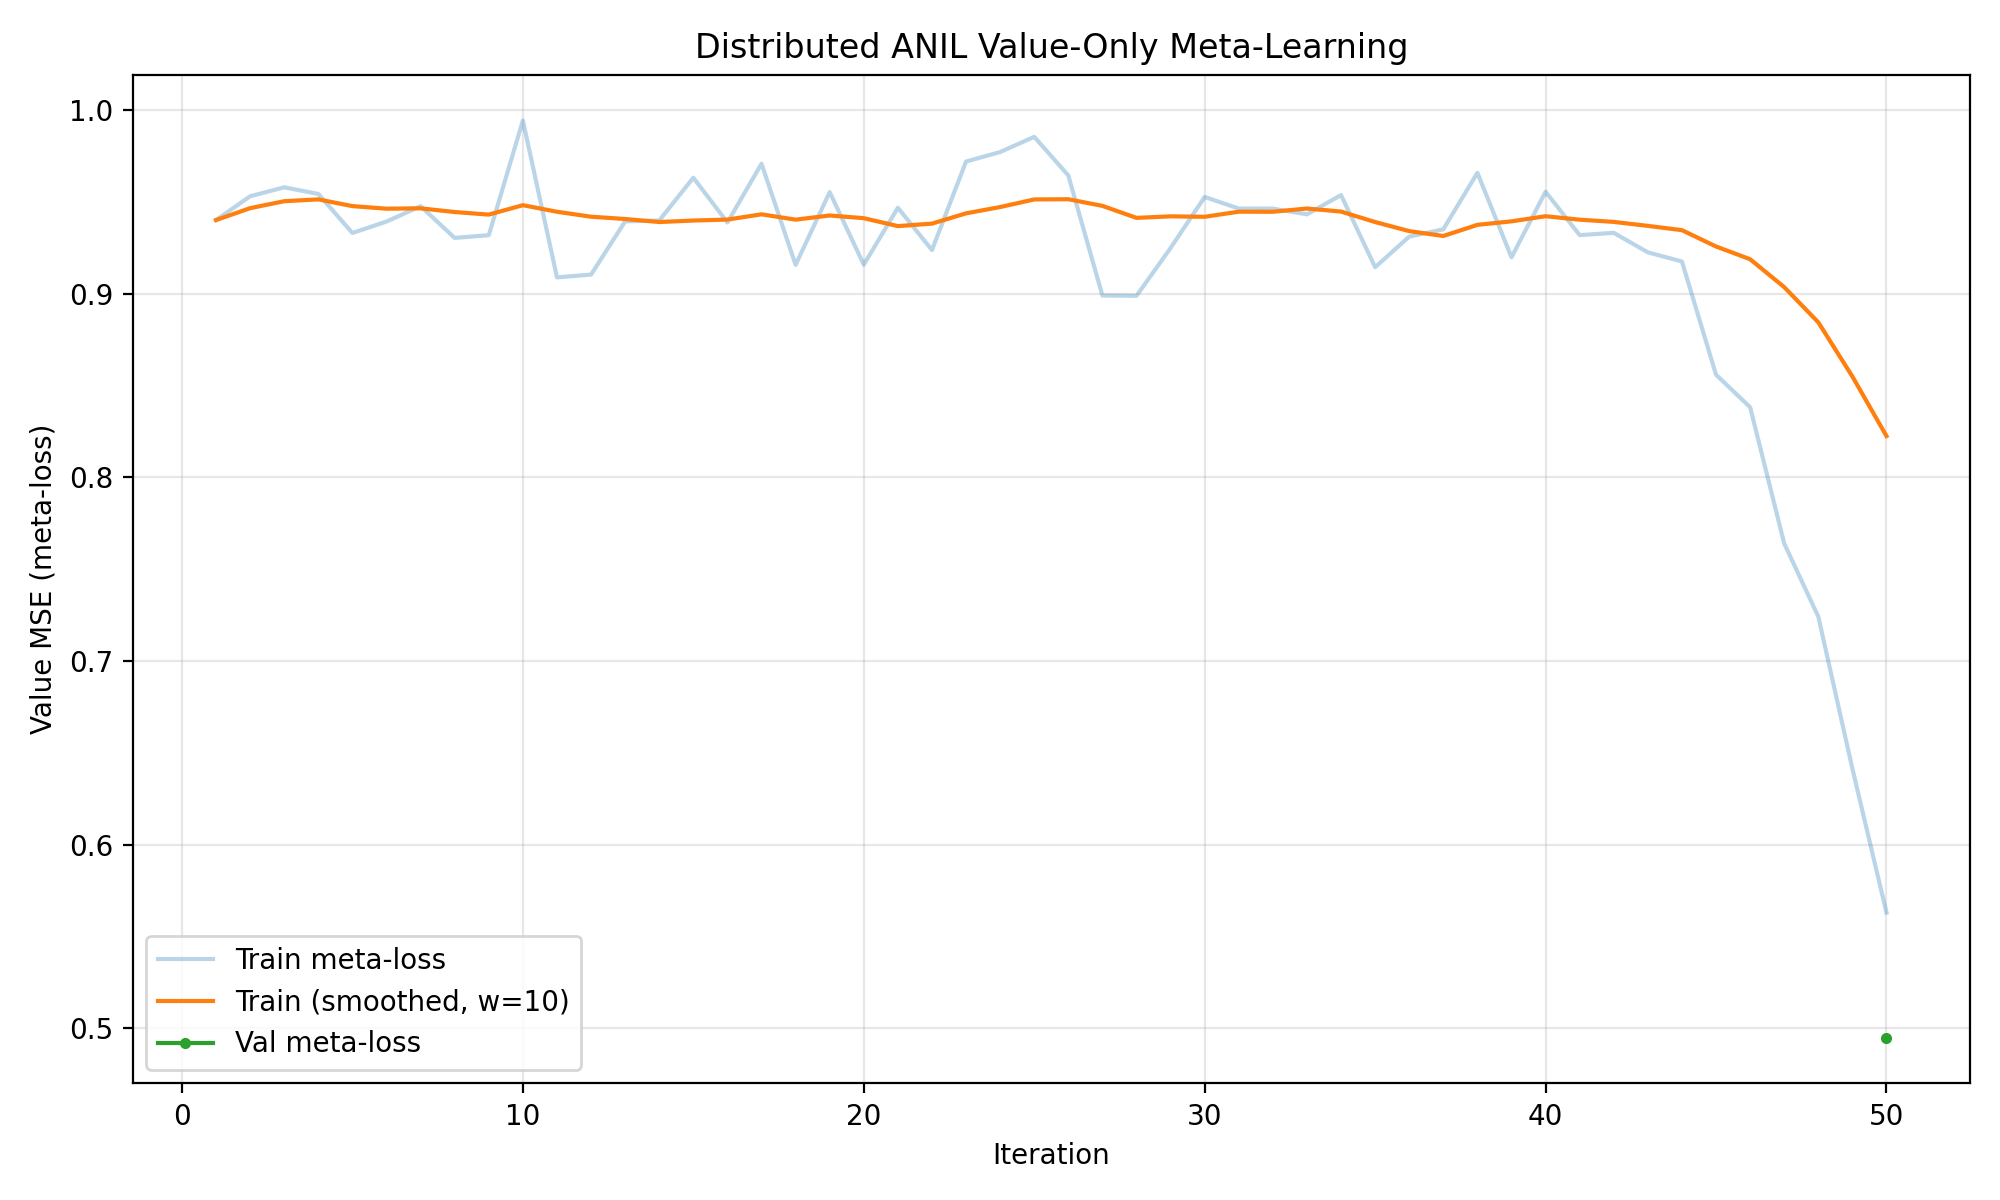
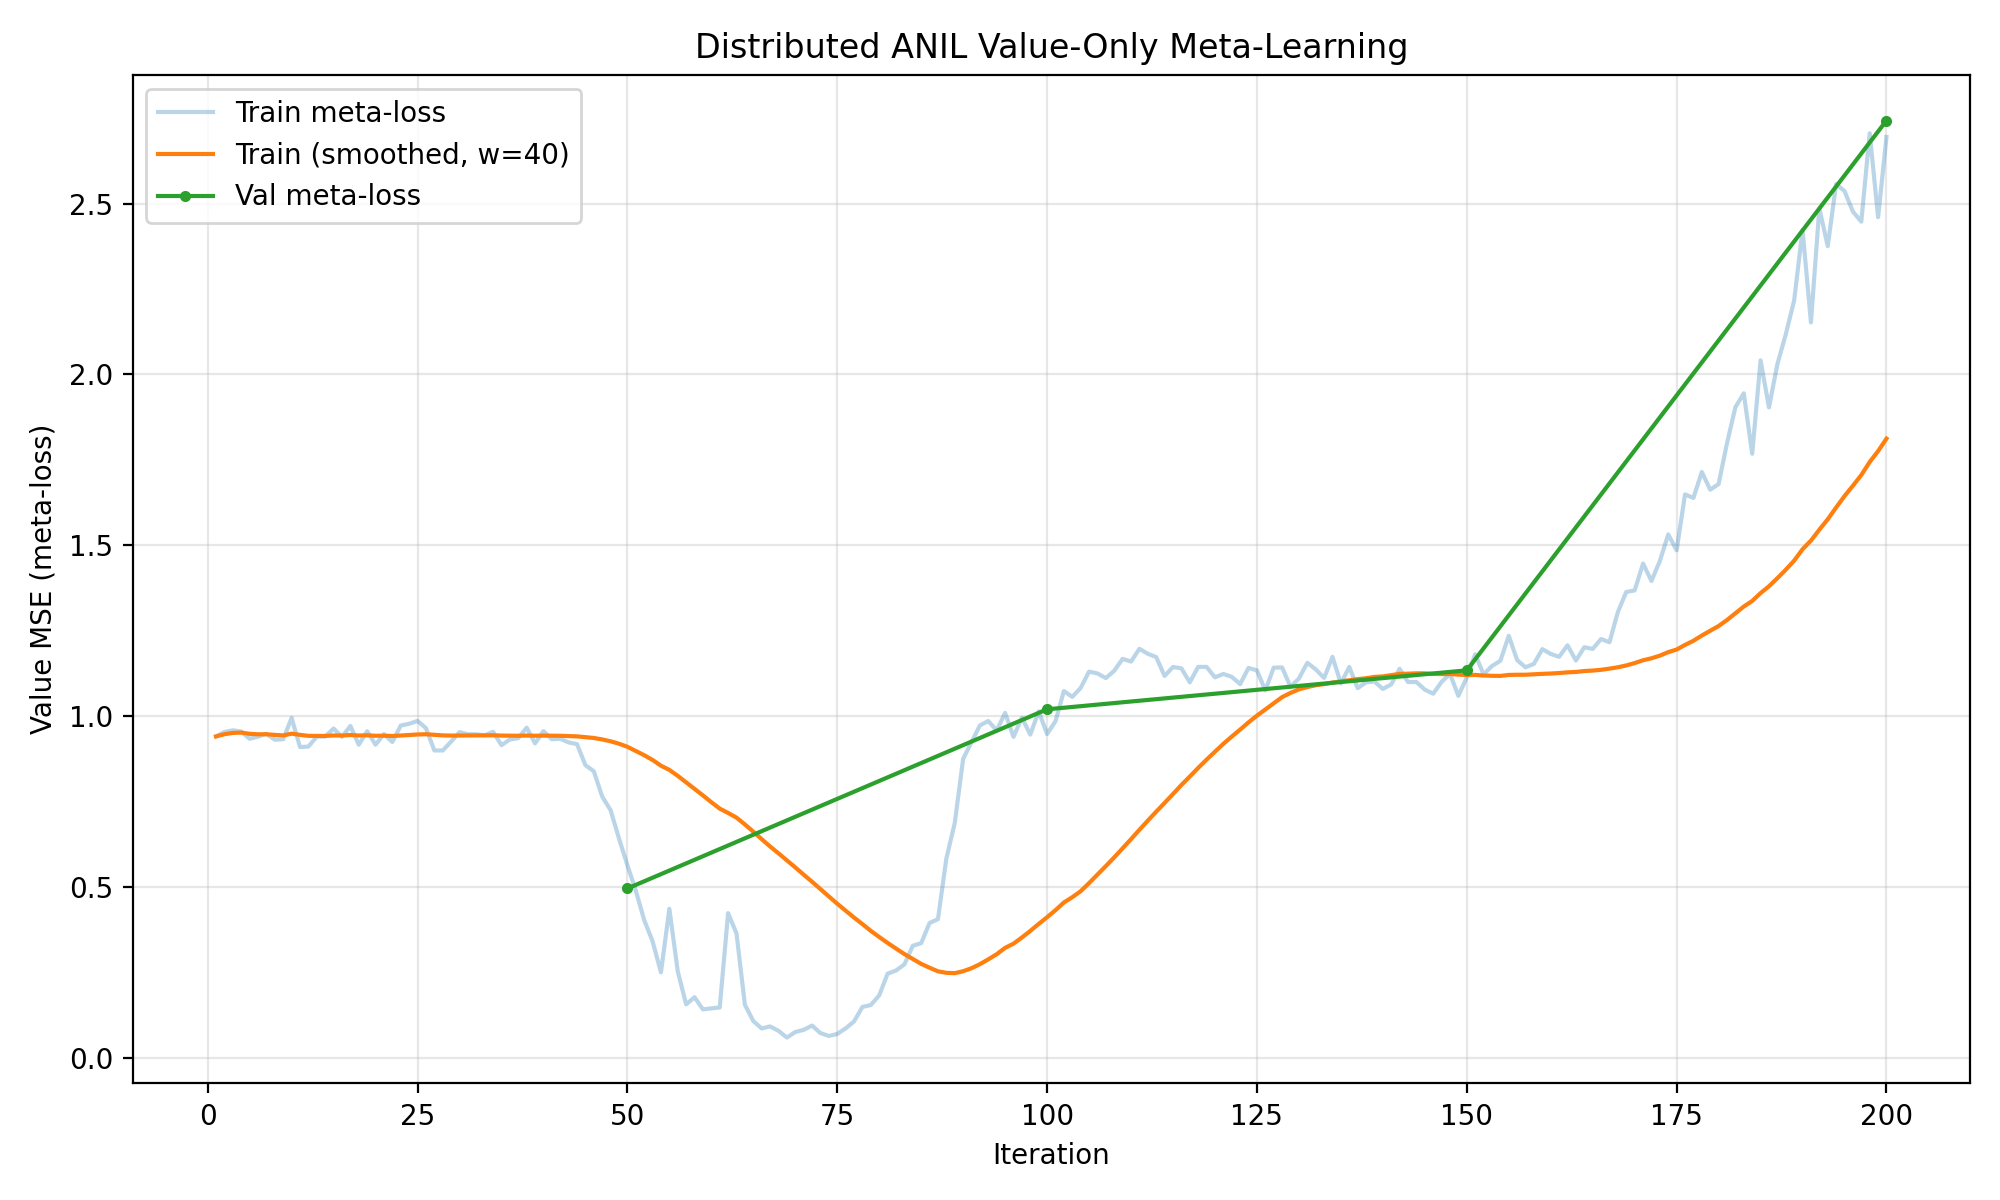
results: auto-update 2026-04-10 18:00

diff --git a/RESULTS.md b/RESULTS.md
@@ -35,12 +35,12 @@ value_hidden=64
 ```
 
 ## latest.pt
-- Iteration: 50
+- Iteration: 200
 - Best val meta-loss: 0.4949
-- Latest train meta-loss: 0.5630
-- Train loss range (last 50): 0.5630 – 0.9944
-- Latest val meta-loss: 0.4949
-- Val loss range (last 10): 0.4949 – 0.4949
+- Latest train meta-loss: 2.6953
+- Train loss range (last 50): 1.1217 – 2.7062
+- Latest val meta-loss: 2.7436
+- Val loss range (last 10): 0.4949 – 2.7436
 
 ## best.pt
 - Iteration: 50
@@ -53,36 +53,36 @@ value_hidden=64
 ## Loss Curve
 ![Loss](runs/game_task_v1/loss.png)
 
-## Console Log (last 30 of 201 lines)
+## Console Log (last 30 of 328 lines)
 ```
-[it    60] meta_loss=0.1439 | 28741ms | 1730s
-[it    61] meta_loss=0.1465 | 28487ms | 1759s
-[it    62] meta_loss=0.4227 | 28833ms | 1788s
-[it    63] meta_loss=0.3632 | 28674ms | 1816s
-[it    64] meta_loss=0.1544 | 27910ms | 1844s
-[it    65] meta_loss=0.1067 | 27864ms | 1872s
-[it    66] meta_loss=0.0851 | 27860ms | 1900s
-[it    67] meta_loss=0.0910 | 28525ms | 1928s
-[it    68] meta_loss=0.0782 | 28496ms | 1957s
-[it    69] meta_loss=0.0583 | 28465ms | 1985s
-[it    70] meta_loss=0.0746 | 28471ms | 2014s
-[it    71] meta_loss=0.0810 | 28065ms | 2042s
-[it    72] meta_loss=0.0935 | 28459ms | 2070s
-[it    73] meta_loss=0.0715 | 28533ms | 2099s
-[it    74] meta_loss=0.0631 | 28354ms | 2127s
-[it    75] meta_loss=0.0690 | 27514ms | 2155s
-[it    76] meta_loss=0.0852 | 28599ms | 2183s
-[it    77] meta_loss=0.1055 | 28469ms | 2212s
-[it    78] meta_loss=0.1481 | 28235ms | 2240s
-[it    79] meta_loss=0.1536 | 28641ms | 2269s
-[it    80] meta_loss=0.1819 | 28684ms | 2297s
-[it    81] meta_loss=0.2455 | 28509ms | 2326s
-[it    82] meta_loss=0.2546 | 27775ms | 2354s
-[it    83] meta_loss=0.2727 | 28413ms | 2382s
-[it    84] meta_loss=0.3270 | 28220ms | 2410s
-[it    85] meta_loss=0.3348 | 28124ms | 2439s
-[it    86] meta_loss=0.3939 | 28441ms | 2467s
-[it    87] meta_loss=0.4050 | 28674ms | 2496s
-[it    88] meta_loss=0.5826 | 28577ms | 2524s
-[it    89] meta_loss=0.6864 | 28007ms | 2552s
+[it   185] meta_loss=2.0413 | 28171ms | 5336s
+[it   186] meta_loss=1.9035 | 28315ms | 5364s
+[it   187] meta_loss=2.0298 | 28484ms | 5392s
+[it   188] meta_loss=2.1173 | 30748ms | 5423s
+[it   189] meta_loss=2.2166 | 28429ms | 5452s
+[it   190] meta_loss=2.4233 | 28416ms | 5480s
+[it   191] meta_loss=2.1523 | 28225ms | 5508s
+[it   192] meta_loss=2.4865 | 28131ms | 5536s
+[it   193] meta_loss=2.3756 | 28343ms | 5565s
+[it   194] meta_loss=2.5575 | 28133ms | 5593s
+[it   195] meta_loss=2.5368 | 28253ms | 5621s
+[it   196] meta_loss=2.4769 | 28386ms | 5649s
+[it   197] meta_loss=2.4474 | 27509ms | 5677s
+[it   198] meta_loss=2.7062 | 28336ms | 5705s
+[it   199] meta_loss=2.4605 | 28081ms | 5733s
+[it   200] meta_loss=2.6953 | 28358ms | 5762s
+  [VAL] meta_loss=2.7436 (best=0.4949)
+[it   201] meta_loss=2.6561 | 28258ms | 5817s
+[it   202] meta_loss=2.7963 | 28272ms | 5845s
+[it   203] meta_loss=2.7468 | 28462ms | 5874s
+[it   204] meta_loss=2.9558 | 28221ms | 5902s
+[it   205] meta_loss=2.9502 | 28660ms | 5931s
+[it   206] meta_loss=2.9023 | 27349ms | 5958s
+[it   207] meta_loss=2.9419 | 27550ms | 5986s
+[it   208] meta_loss=2.7411 | 28489ms | 6014s
+[it   209] meta_loss=2.8913 | 28501ms | 6043s
+[it   210] meta_loss=3.0097 | 28516ms | 6071s
+[it   211] meta_loss=3.3419 | 28339ms | 6099s
+[it   212] meta_loss=2.9977 | 28333ms | 6128s
+[it   213] meta_loss=3.1329 | 28300ms | 6156s
 ```
